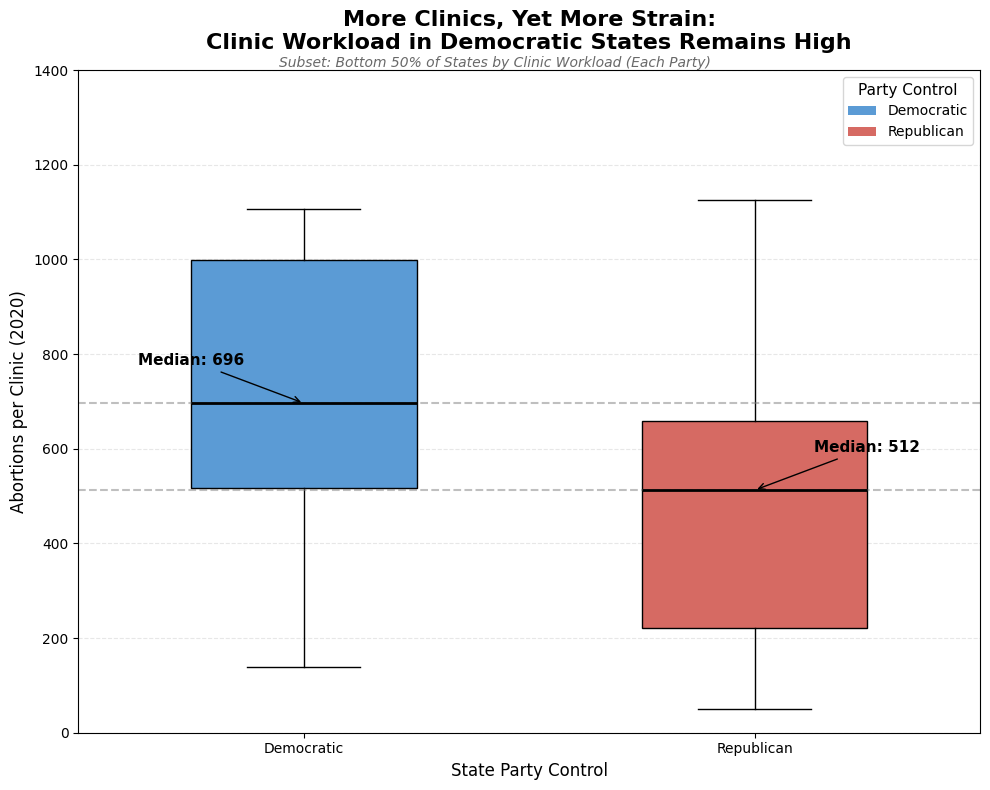
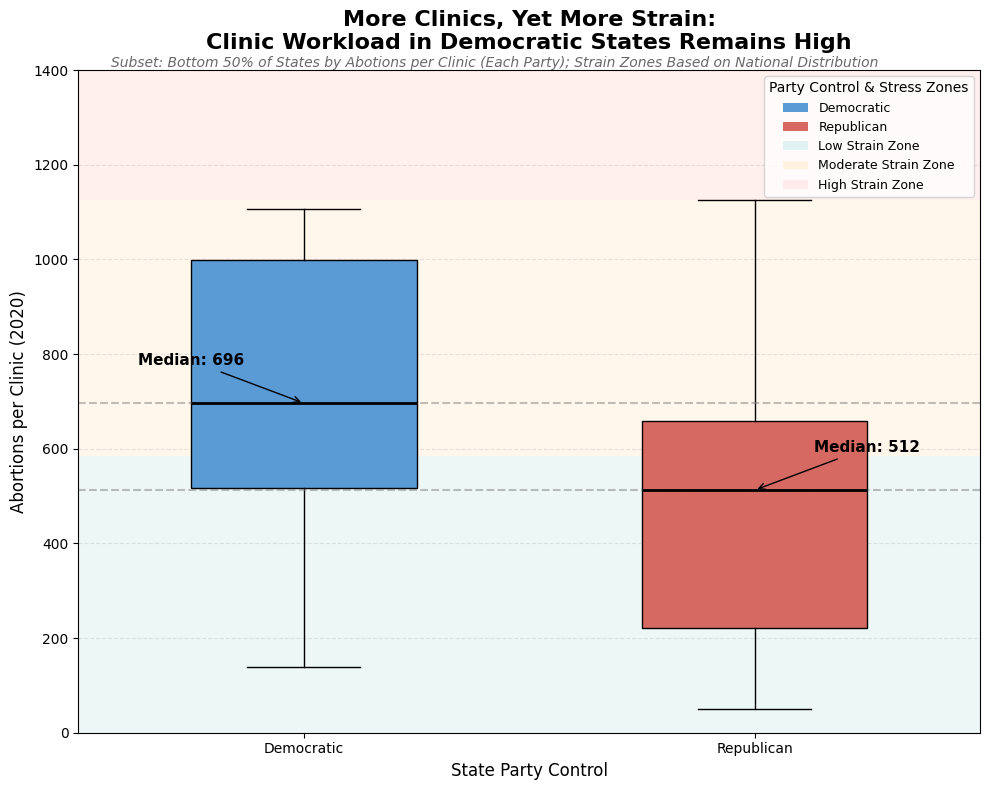
update project2

Changed region(s): [[0.1212, 0.0608, 1.0, 0.243]]

diff --git a/project2/project2_report.html b/project2/project2_report.html
@@ -24,6 +24,16 @@
         margin: 0 auto;
       }
 
+      figure img {
+        display: block;
+        margin: 0 auto;
+        max-width: 100%;
+        max-height: 100%;
+        width: auto;
+        height: auto;
+        object-fit: contain;
+      }
+
       /* Headings */
 
       h1,
@@ -210,22 +220,27 @@
               <li>Score: –1.5; By focusing on “low‐strain” states, this selection hides many Republican states with very high workloads that would raise the Republican median, therefore exaggerating the democratic workloads even further. While it may sounds “fair” on the surface by applying symmetric filter for both parties, but because Republicans have a few extremely high‐strain states like Mississippi(3510 abortions/clinic) and Georgia(2972 abotions/clinic) and 4 of top 6 states with highest abotions per clinic are Republicans, removing these will skillfully wipes out most of their worst workloads from Republican Party.</li>
           </ul>
           </li>
-          <li>Add dashed horizontal lines, a bold arrow, and label for each party median
+          <li>Computed Abortions per Clinic as a derived metric
+            <ul>
+              <li>Score: +1.5; The use of this newly computed variable aggregates access strain by dividing abortion count by clinic count, which effectively measure the workload. It enables comparison across states by party and also is a good assessment of whether the quality really indicates quantity. </li>
+          </ul>
+        </li>
+          <li>Add Stree Zone Shaded by national quartiles
+            <ul>
+              <li>Score: +1.5; Using the national distribution of the Abortions per Clinic to label “Low”(0,q25), “Moderate”(q25,q75), and “High”(q75-) strain zones transparently contextualizes clinic workload. This help add more background of the national performance and through which viewers can see that even for the bottom 50% least-strained states,  Democratic states' clinic workloads are clustered much higher—mostly 'Moderate' zone, than their counterparts. It effectives shows that even Democratic states face significant overuse issue, challenging the claim of 'better access'.</li>
+          </ul>
+        </li>
+          <li>Y-axis topped at 1400
           <ul>
-            <li>Score: +1; Making the key numeric takeaway transparent and obvious to the readers without the need of further interpretation.</li>
+            <li>Score: +1; Capping the visualization at 1400 avoids unnecessary white space and helps focus the reader on the two boxes more closely; however, it does also viually 'stretch' the height of each box and subconsciously exaggerate the burden, therefore making the Democratic median look taller.</li>
         </ul>
         </li>
-          <li>Boxplot Style
+          <li>Boxplot Style with Added dashed horizontal lines, a bold arrow, and label for each party median
           <ul>
-            <li>Score: +1.5; The use of boxeplot reveal not only the median but also the full range of the distribution. Notice that the entire blue box representing Democrats is shifted upward relative to the red box representing Repiblicans counterparts and all of the datapoints(q1,q3, max, min) are higher than the Republican-led states, creating an effect of “higher workloads everywhere.”</li>
+            <li>Score: +1.5; The use of boxeplot reveal not only the median but also the full range of the distribution. The annotations also help make the key numeric takeaway transparent and obvious to the readers without the need of further interpretation. Notice that the entire blue box representing Democrats is shifted upward relative to the red box representing Repiblicans counterparts and all of the datapoints(q1,q3, max, min) are higher than the Republican-led states, creating an effect of “higher workloads everywhere.”</li>
         </ul>
       </li>
-    </li>
-        <li>Computed Abortions per Clinic as a derived metric
-        <ul>
-          <li>Score: +1.5; The use of this newly computed variable aggregates access strain by dividing abortion count by clinic count, which effectively measure the workload. It enables comparison across states by party and also is a good assessment of whether the quality really indicates quantity. </li>
-      </ul>
-    </li>
+  
         </ul>
       </section>
 
